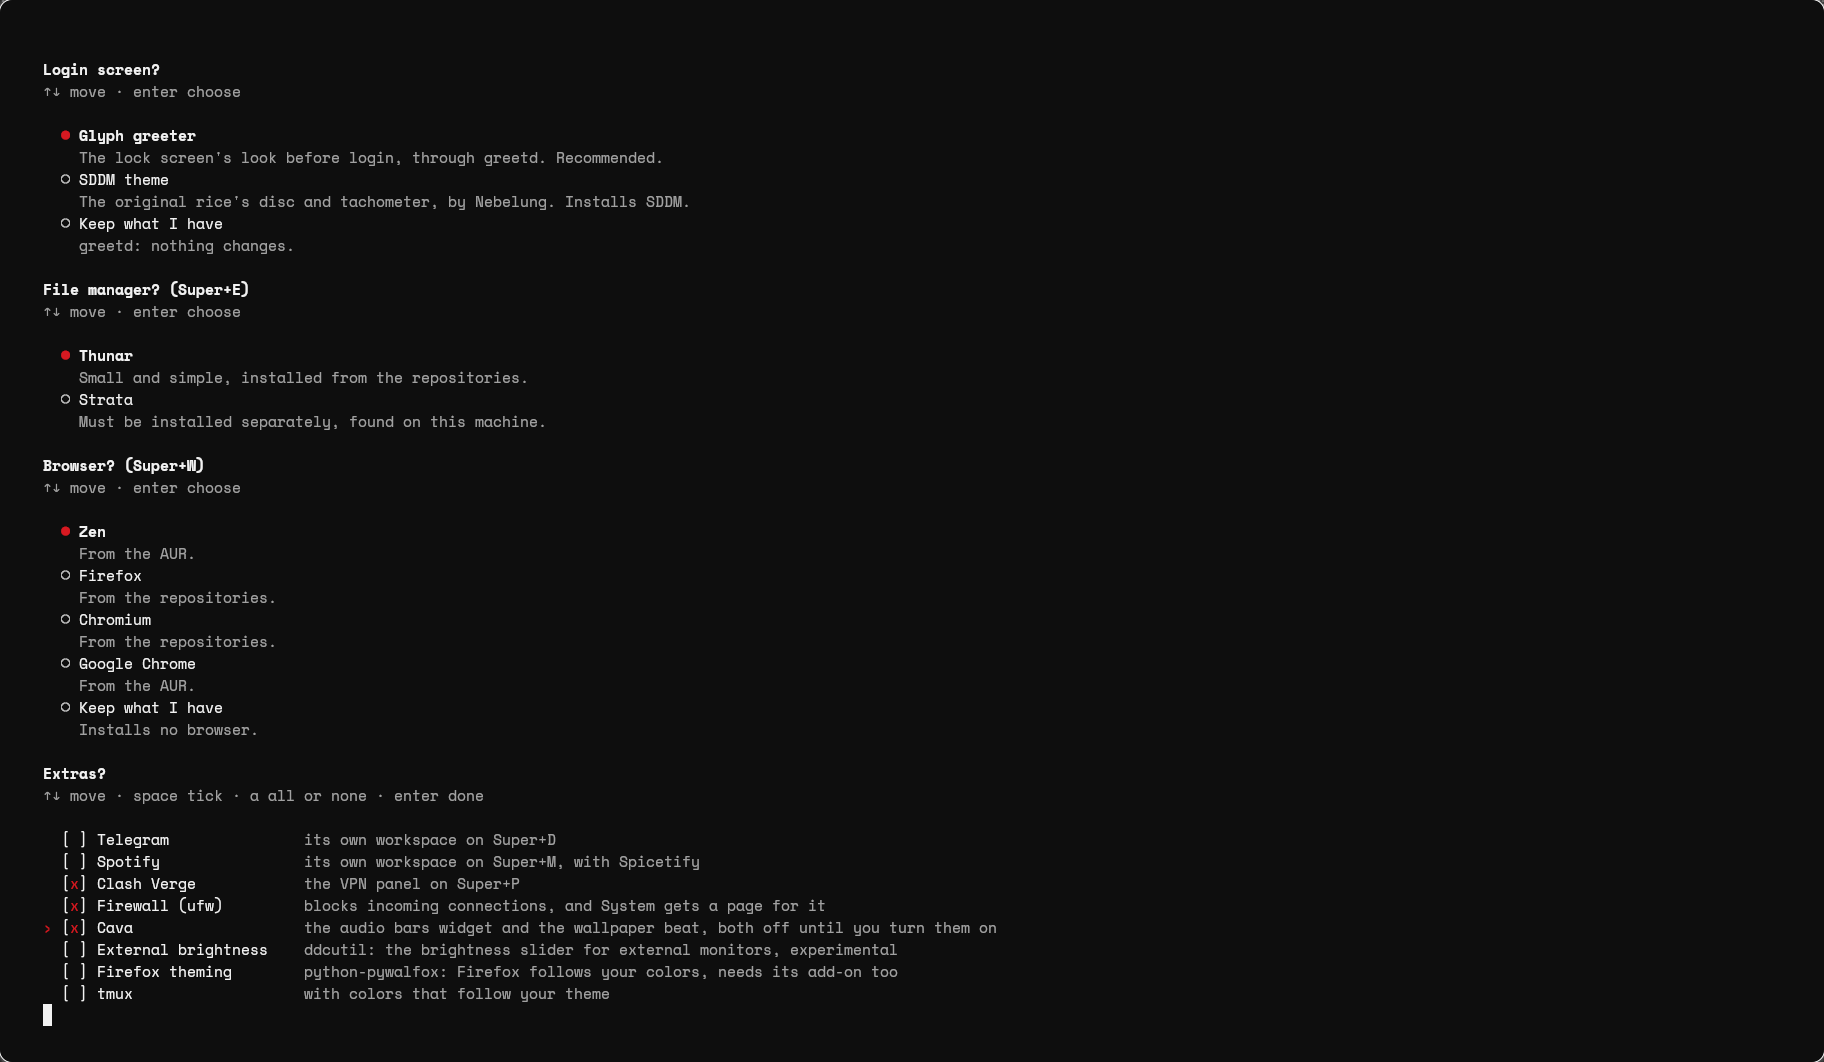
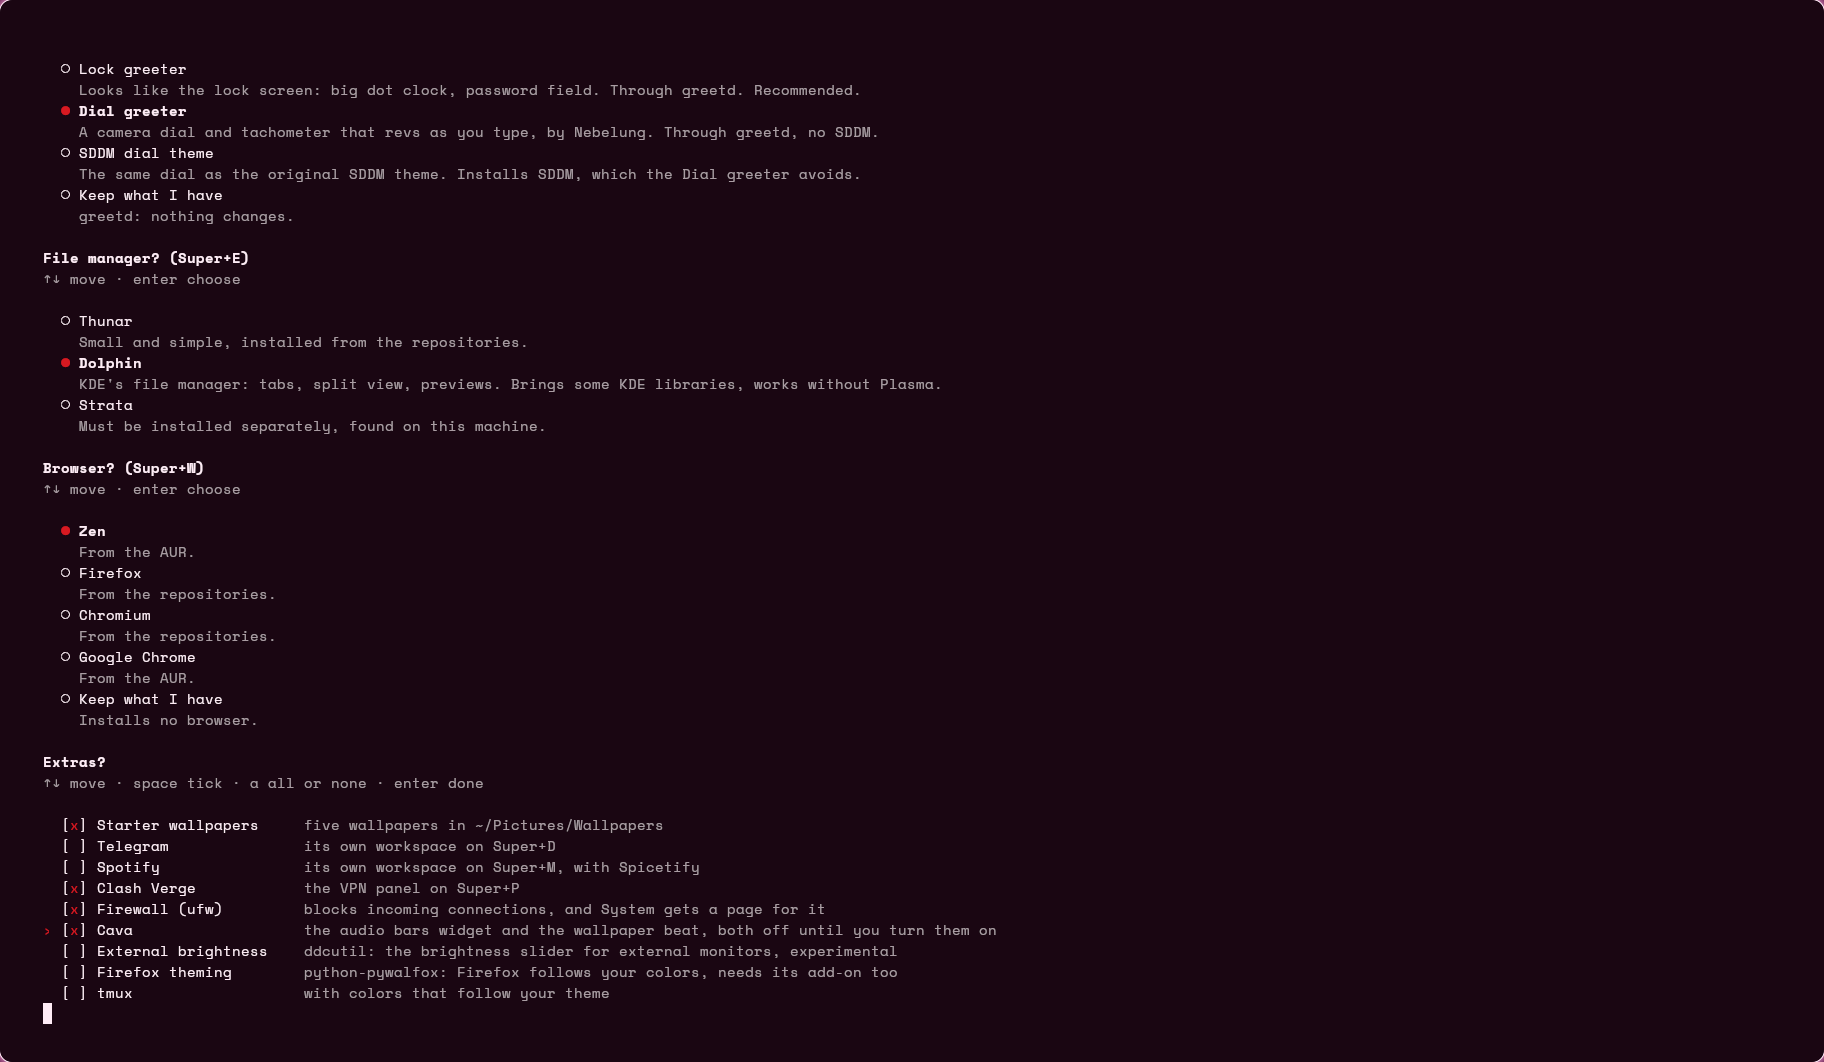
Docs: current installer screenshot, plus the lock screen, Dial greeter and welcome card

diff --git a/README.md b/README.md
@@ -179,7 +179,9 @@ Wi-Fi names, Bluetooth devices, the hostname and the laptop model are blanked ou
 | ![charms](screenshots/charms.png) **Charms** | ![walls](screenshots/walls.png) **Wallpapers** |
 | ![power](screenshots/power.png) **Power** | ![shot](screenshots/shot.png) **Shot** (from the original) |
 | ![clip](screenshots/clip.png) **Clip** (from the original) | ![greeter](screenshots/greeter.png) **Lock greeter** (preview, username blanked) |
-| ![dial](screenshots/login.png) **Dial greeter and SDDM dial theme** (they share this look, screenshot from the original) | ![installer](screenshots/installer.png) **Installer** |
+| ![dial greeter](screenshots/dial-greeter.png) **Dial greeter** (username and hostname blanked) | ![installer](screenshots/installer.png) **Installer** |
+| ![lock](screenshots/lock.png) **Lock screen** | ![welcome](screenshots/welcome.png) **Welcome card** |
+| ![sddm](screenshots/login.png) **SDDM dial theme** (from the original) | |
 
 <div align="center"><img src="assets/divider-matrix.svg" width="720" alt=""></div>
 
